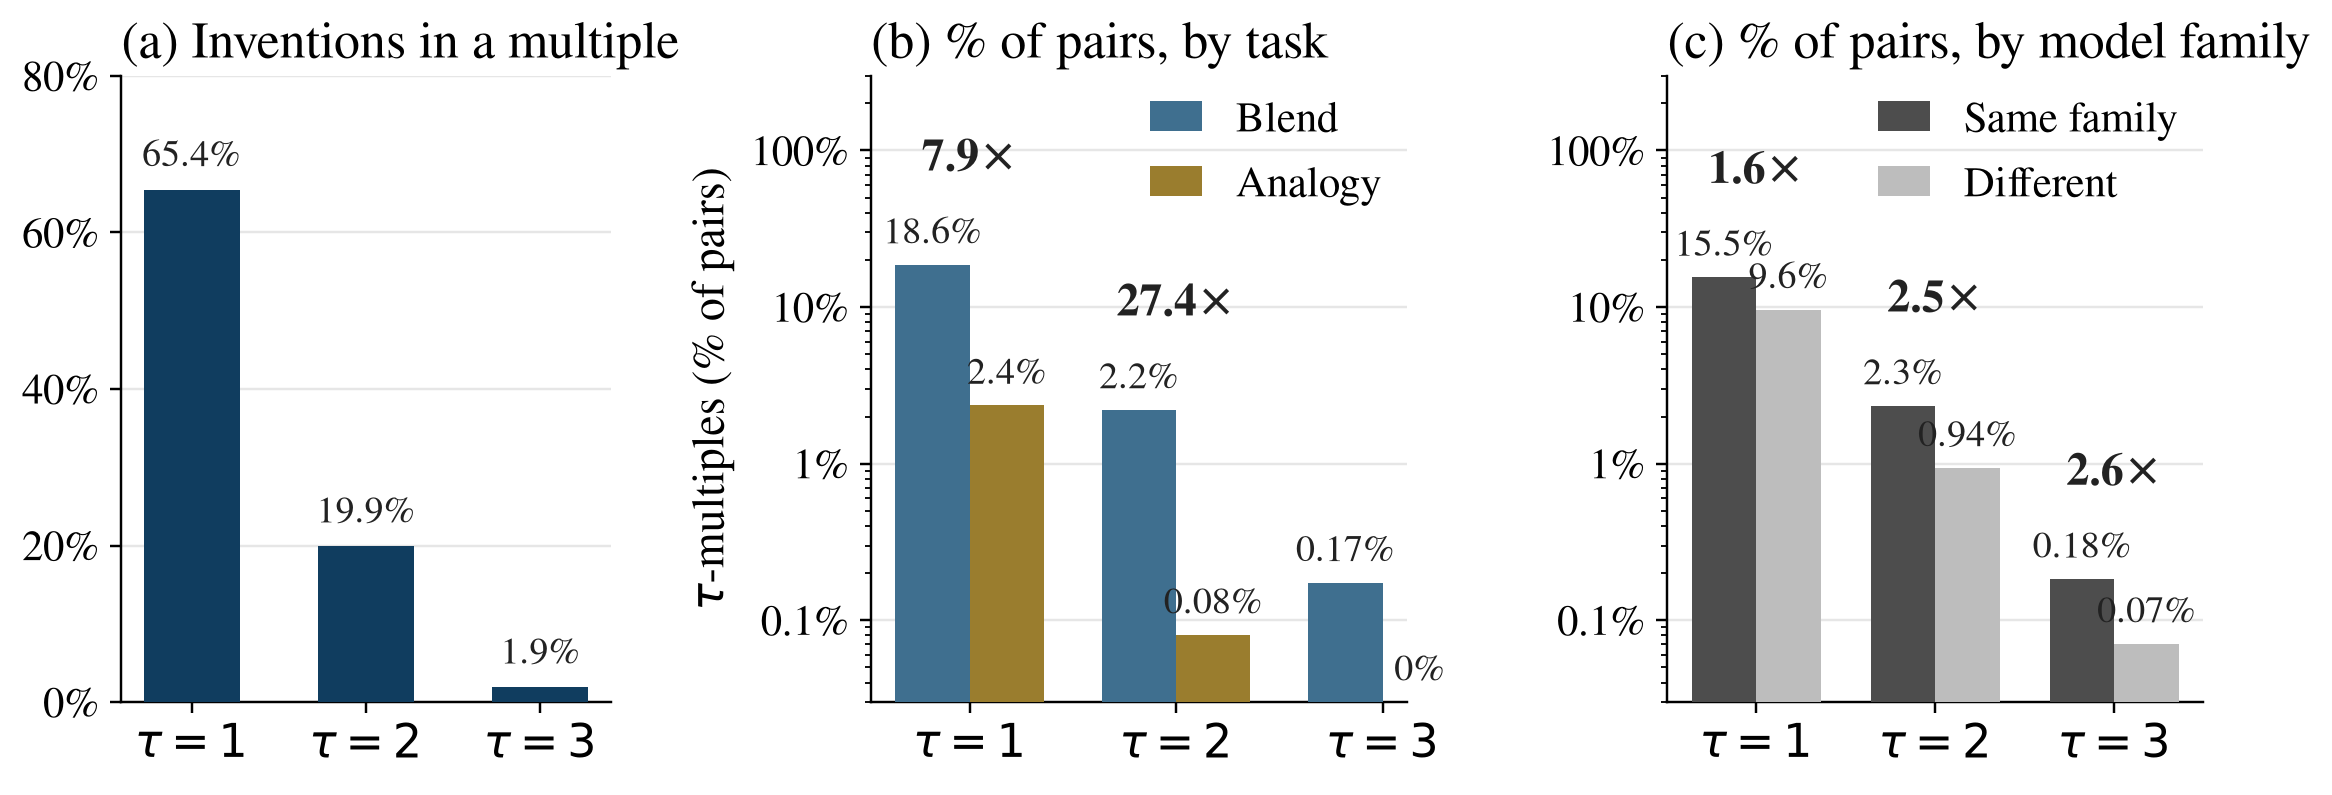
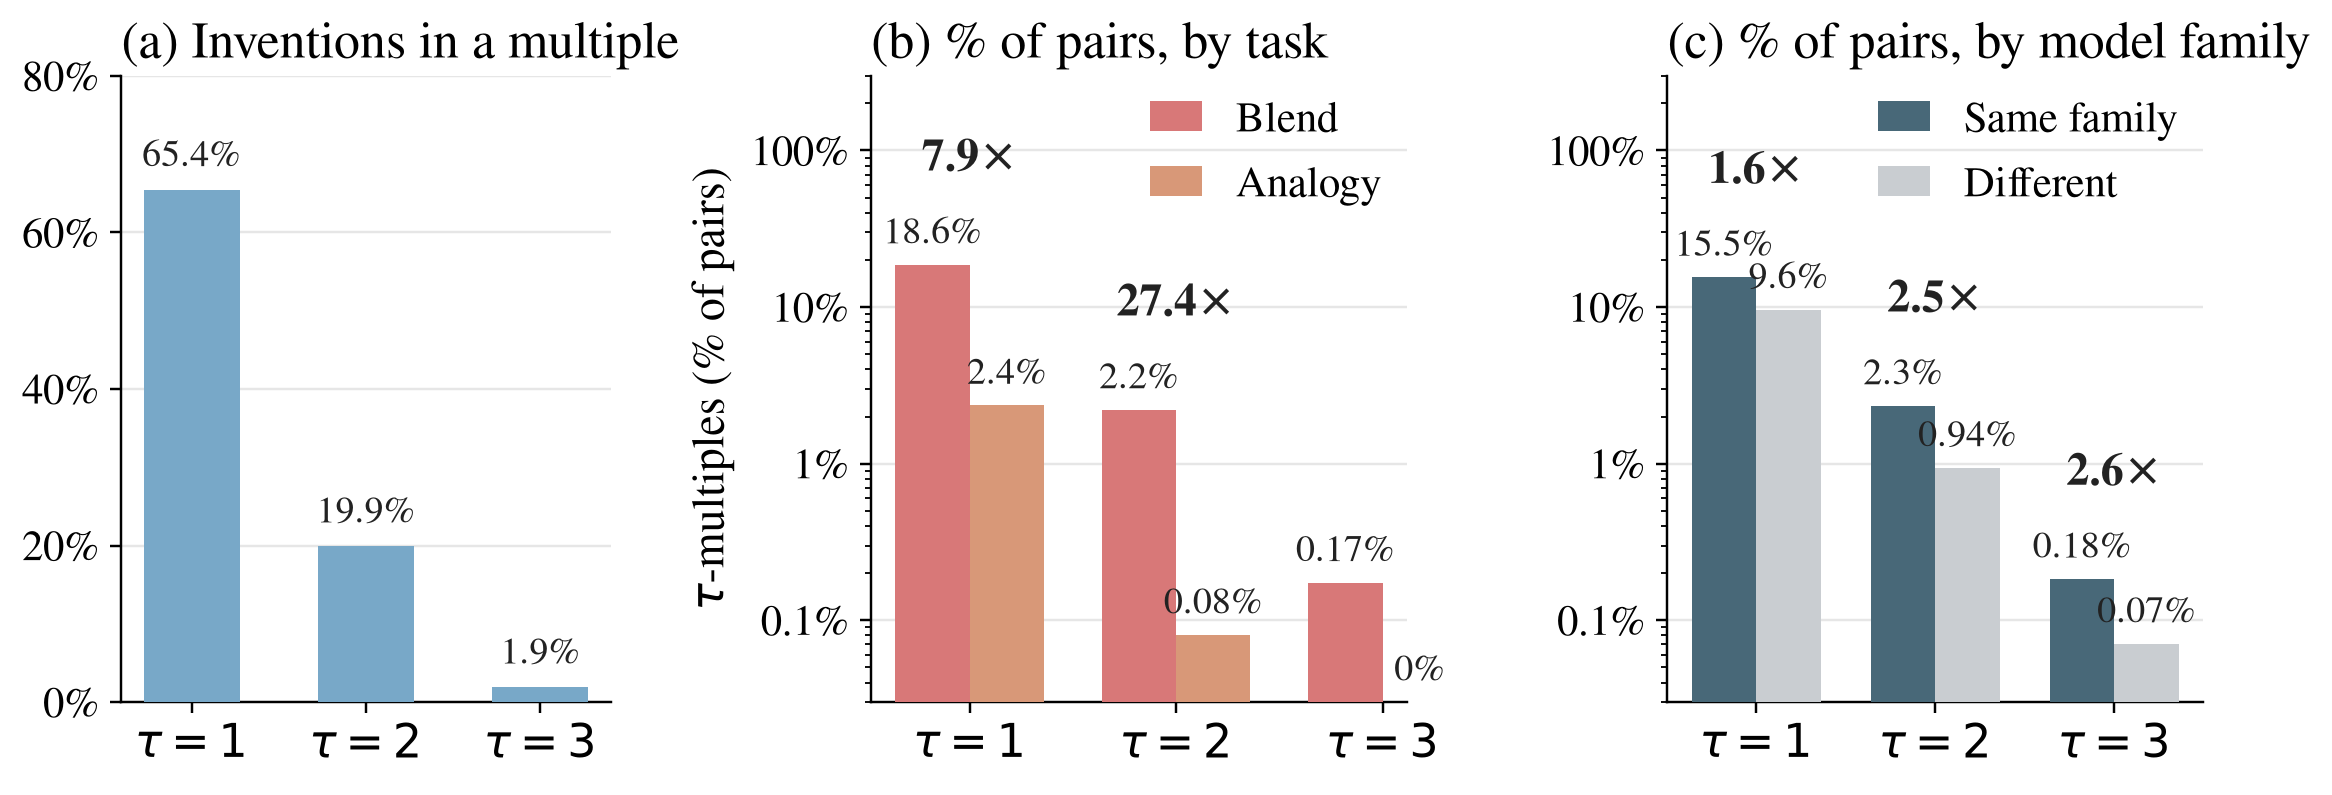
plot_tau_multiples: inventions panel first, Figure 2's palette

diff --git a/src/kg_creat/scripts/plot_tau_multiples.py b/src/kg_creat/scripts/plot_tau_multiples.py
@@ -19,9 +19,10 @@ import numpy as np
 
 SRC = Path("data/kg_creat/kombine_test30/analysis/inventive_multiples.json")
 OUT = Path("docs/reports/2026-09-01_kg_creat_inventive_multiples/figures")
-BLEND, ANALOGY = "#3F6F8F", "#9A7D2E"          # the paper's task colours (facet-correlation figure: TASK_COL)
-SAME, DIFF = "#4D4D4D", "#BDBDBD"              # model family: neutral greys
-INV = "#103D5F"                                 # the paper's batlowBlue
+# Figure 2's palette (the Kombine overview): soft red, tan and blue entities, dark slate outlines
+BLEND, ANALOGY = "#D87878", "#D89878"
+SAME, DIFF = "#486878", "#C9CDD1"
+INV = "#78A8C8"
 plt.rcParams.update({"font.family": "serif", "font.serif": ["Nimbus Roman", "Times New Roman", "DejaVu Serif"], "font.size": 16})
 YMIN = 0.03                                      # log-axis floor; a zero rate is written just above it
 
